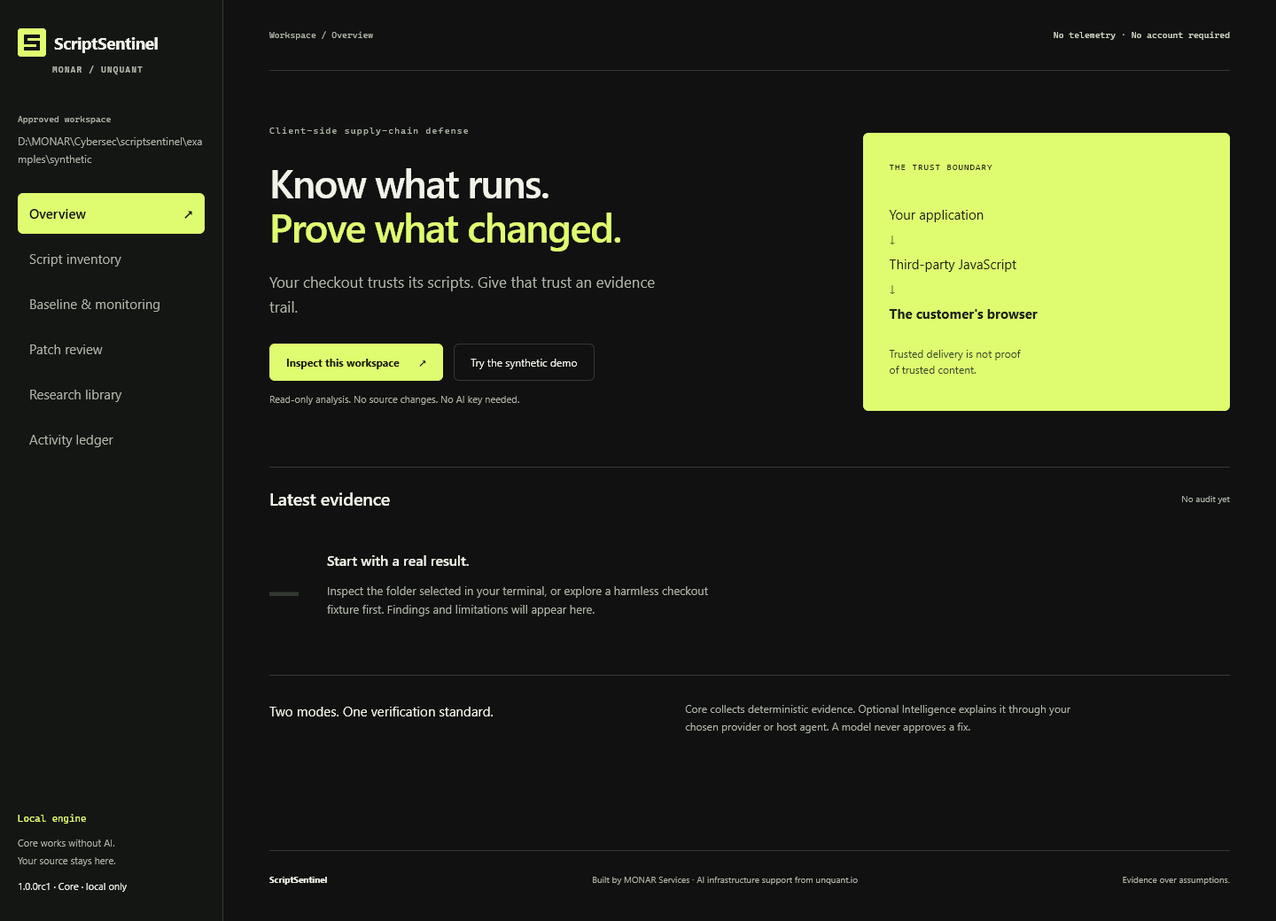
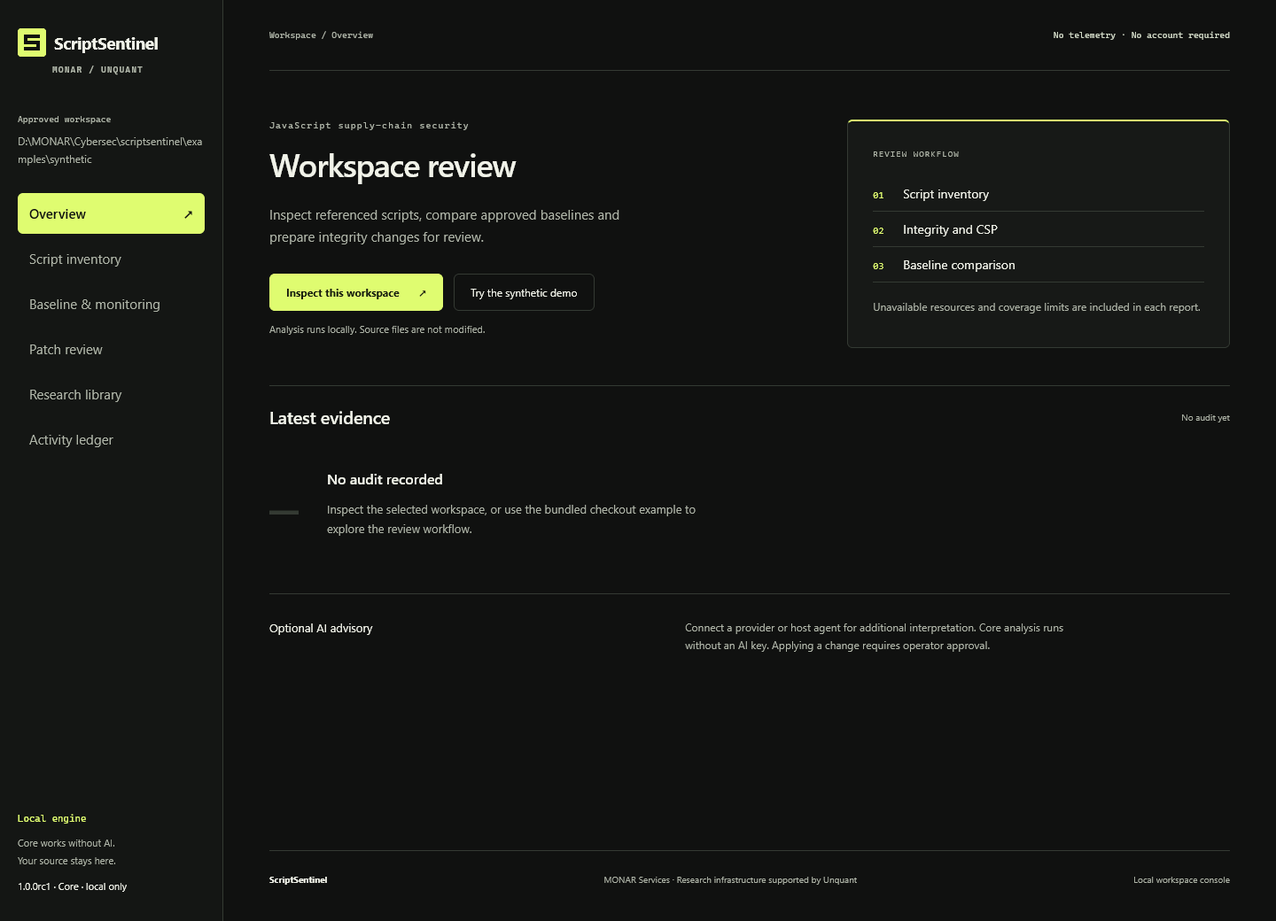
Replace promotional slogans with restrained security product design

diff --git a/src/scriptsentinel/web/index.html b/src/scriptsentinel/web/index.html
@@ -9,15 +9,15 @@
 <div class="rail-foot"><span class="local-state">Local engine</span><p>Core works without AI.<br>Your source stays here.</p><span id="version">Development build</span></div></aside>
 <main id="main"><header class="topbar"><span id="breadcrumb">Workspace / Overview</span><span class="privacy">No telemetry · No account required</span></header>
 <div id="notice" role="status" aria-live="polite" hidden></div>
-<section id="overview" class="view"><div class="intro"><div><span class="eyebrow">Client-side supply-chain defense</span><h1>Know what runs.<br><em>Prove what changed.</em></h1><p class="lead">Your checkout trusts its scripts. Give that trust an evidence trail.</p><div class="actions"><button class="primary" id="audit">Inspect this workspace <span>↗</span></button><button class="secondary" id="demo">Try the synthetic demo</button></div><p class="hint">Read-only analysis. No source changes. No AI key needed.</p></div><div class="signal"><span>THE TRUST BOUNDARY</span><div class="chain"><div>Your application</div><b>↓</b><div>Third-party JavaScript</div><b>↓</b><div class="chain-active">The customer's browser</div></div><p>Trusted delivery is not proof<br>of trusted content.</p></div></div>
+<section id="overview" class="view"><div class="intro"><div><span class="eyebrow">JavaScript supply-chain security</span><h1>Workspace review</h1><p class="lead">Inspect referenced scripts, compare approved baselines and prepare integrity changes for review.</p><div class="actions"><button class="primary" id="audit">Inspect this workspace <span>↗</span></button><button class="secondary" id="demo">Try the synthetic demo</button></div><p class="hint">Analysis runs locally. Source files are not modified.</p></div><div class="signal"><span>REVIEW WORKFLOW</span><div class="chain"><div><b>01</b> Script inventory</div><div><b>02</b> Integrity and CSP</div><div><b>03</b> Baseline comparison</div></div><p>Unavailable resources and coverage limits are included in each report.</p></div></div>
 <div class="section-line"><h2>Latest evidence</h2><span id="run-label">No audit yet</span></div>
-<div id="empty" class="empty"><span class="empty-number">—</span><div><h3>Start with a real result.</h3><p>Inspect the folder selected in your terminal, or explore a harmless checkout fixture first. Findings and limitations will appear here.</p></div></div>
+<div id="empty" class="empty"><span class="empty-number">—</span><div><h3>No audit recorded</h3><p>Inspect the selected workspace, or use the bundled checkout example to explore the review workflow.</p></div></div>
 <div id="report" hidden><div class="report-head"><div><span id="risk" class="badge"></span><h2 id="report-title">Audit findings</h2></div><button class="secondary" id="download-report">Export JSON</button></div><div class="facts"><div><span>Scripts inventoried</span><strong id="script-count"></strong></div><div><span>Resources unavailable</span><strong id="unavailable-count"></strong></div><div><span>CSP posture</span><strong id="csp-grade"></strong></div><div><span>Analysis</span><strong>AST + heuristics</strong></div></div><div class="section-line"><h3>Review queue</h3><span>Signals require context</span></div><div id="findings"></div></div>
-<div class="bottom-note"><span>Two modes. One verification standard.</span><p>Core collects deterministic evidence. Optional Intelligence explains it through your chosen provider or host agent. A model never approves a fix.</p></div></section>
+<div class="bottom-note"><span>Optional AI advisory</span><p>Connect a provider or host agent for additional interpretation. Core analysis runs without an AI key. Applying a change requires operator approval.</p></div></section>
 <section id="inventory" class="view" hidden><h1>Script inventory</h1><p class="lead compact">See what was analyzed, what could not be read, and which bytes were verified.</p><div class="toolbar"><label for="search">Filter scripts</label><input id="search" type="search" placeholder="Search a source path or rule"><button class="secondary" id="inventory-audit">Refresh audit</button></div><div class="table-wrap"><table><caption class="sr">Latest script inventory</caption><thead><tr><th>Source</th><th>Kind</th><th>Integrity</th><th>Signals</th></tr></thead><tbody id="scripts"><tr><td colspan="4">Run an audit to populate this inventory.</td></tr></tbody></table></div><p class="hint">Static inventory cannot discover every runtime load. Use the authorized browser observation command for staging-page evidence.</p></section>
-<section id="monitor" class="view" hidden><h1>Trust is a decision.<br>Drift is an observation.</h1><p class="lead compact">Approve a baseline only after reviewing the underlying release or artifacts. Capturing today's bytes does not make them trustworthy.</p><div class="split"><form id="baseline-form"><h2>Establish a reviewed baseline</h2><label for="reviewer">Reviewer</label><input id="reviewer" required placeholder="Your name or review team"><label for="provenance">Approved artifact provenance</label><input id="provenance" required placeholder="Release, commit or independent review reference"><label class="check"><input id="baseline-approved" type="checkbox" required> I independently reviewed these artifacts and approve their hashes.</label><button class="primary" type="submit">Pin reviewed baseline</button><p id="baseline-status" class="hint"></p></form><div class="plain-panel"><h2>Compare against approval</h2><p>Detect added, removed and changed local HTML and referenced scripts. Results persist in the activity ledger.</p><button class="secondary" id="compare">Check for changes</button><pre id="drift" class="output">No comparison performed.</pre><p class="hint">For a standing local watch: <code>scriptsentinel watch . --interval 60</code></p></div></div></section>
-<section id="patch" class="view" hidden><h1>A fix you can inspect.</h1><p class="lead compact">Prepare SRI changes from reviewed bytes, validate them in a temporary copy, and take the diff to your application tests.</p><form id="proposal-form" class="proposal-form"><label for="html-file">HTML file, relative to this workspace</label><input id="html-file" required placeholder="checkout/index.html"><label for="baseline-file">Trusted baseline file, relative to this workspace</label><input id="baseline-file" required value=".scriptsentinel/baseline.json"><button class="primary" type="submit">Prepare proposal</button></form><div id="proposal-result" hidden><div class="section-line"><h2>Proposed changes</h2><button class="secondary" id="download-proposal">Download proposal</button></div><pre id="diff" class="output diff"></pre><button class="primary" id="validate">Validate in a temporary copy</button><pre id="validation" class="output">Validation has not run.</pre><p class="hint">Application and production compatibility require separate review. Applying a proposal is an explicit CLI action with <code>apply-proposal --approve</code>; the console cannot silently change your application.</p></div></section>
-<section id="research" class="view" hidden><h1>Research with receipts.</h1><p class="lead compact">Versioned, attributed evidence. Incident reports and historical lab results retain separate provenance.</p><div id="research-content" class="research-list">Loading research pack…</div></section>
+<section id="monitor" class="view" hidden><h1>Baselines and monitoring</h1><p class="lead compact">Approve a baseline only after reviewing the underlying release or artifacts. Capturing today's bytes does not make them trustworthy.</p><div class="split"><form id="baseline-form"><h2>Establish a reviewed baseline</h2><label for="reviewer">Reviewer</label><input id="reviewer" required placeholder="Your name or review team"><label for="provenance">Approved artifact provenance</label><input id="provenance" required placeholder="Release, commit or independent review reference"><label class="check"><input id="baseline-approved" type="checkbox" required> I independently reviewed these artifacts and approve their hashes.</label><button class="primary" type="submit">Pin reviewed baseline</button><p id="baseline-status" class="hint"></p></form><div class="plain-panel"><h2>Compare against approval</h2><p>Detect added, removed and changed local HTML and referenced scripts. Results persist in the activity ledger.</p><button class="secondary" id="compare">Check for changes</button><pre id="drift" class="output">No comparison performed.</pre><p class="hint">For a standing local watch: <code>scriptsentinel watch . --interval 60</code></p></div></div></section>
+<section id="patch" class="view" hidden><h1>Integrity patch proposals</h1><p class="lead compact">Prepare SRI changes from reviewed bytes, validate them in a temporary copy, and take the diff to your application tests.</p><form id="proposal-form" class="proposal-form"><label for="html-file">HTML file, relative to this workspace</label><input id="html-file" required placeholder="checkout/index.html"><label for="baseline-file">Trusted baseline file, relative to this workspace</label><input id="baseline-file" required value=".scriptsentinel/baseline.json"><button class="primary" type="submit">Prepare proposal</button></form><div id="proposal-result" hidden><div class="section-line"><h2>Proposed changes</h2><button class="secondary" id="download-proposal">Download proposal</button></div><pre id="diff" class="output diff"></pre><button class="primary" id="validate">Validate in a temporary copy</button><pre id="validation" class="output">Validation has not run.</pre><p class="hint">Application and production compatibility require separate review. Applying a proposal is an explicit CLI action with <code>apply-proposal --approve</code>; the console cannot silently change your application.</p></div></section>
+<section id="research" class="view" hidden><h1>Incident research</h1><p class="lead compact">Versioned, attributed evidence. Incident reports and historical lab results retain separate provenance.</p><div id="research-content" class="research-list">Loading research pack…</div></section>
 <section id="activity" class="view" hidden><div class="section-line"><h1>Activity ledger</h1><button class="secondary" id="refresh-activity">Refresh</button></div><p class="lead compact">Local decisions and observations, recorded as they happen.</p><div id="events"></div></section>
-<footer><strong>ScriptSentinel</strong><span>Built by MONAR Services · AI infrastructure support from unquant.io</span><span>Evidence over assumptions.</span></footer>
+<footer><strong>ScriptSentinel</strong><span>MONAR Services · Research infrastructure supported by Unquant</span><span>Local workspace console</span></footer>
 </main></body></html>

diff --git a/src/scriptsentinel/web/style.css b/src/scriptsentinel/web/style.css
@@ -1,2 +1,3 @@
 :root{color-scheme:dark;--bg:#101110;--surface:#171917;--panel:#1d201d;--line:#343a33;--text:#f1f3e9;--muted:#b0b6a9;--yellow:#dffc70;--red:#ff9990;--radius:6px;font-family:'Segoe UI',Arial,sans-serif;font-size:15px}*{box-sizing:border-box}body{margin:0;background:var(--bg);color:var(--text)}button,input{font:inherit}button,a,input{outline-offset:5px}button:focus-visible,a:focus-visible,input:focus-visible{outline:2px solid var(--yellow)}button{cursor:pointer;border:1px solid var(--line);border-radius:var(--radius);transition:background .18s,color .18s,transform .18s}button:disabled{opacity:.55;cursor:wait}button:active:not(:disabled){transform:translateY(1px)}a{color:inherit}p{line-height:1.65;color:var(--muted);max-width:70ch}h1,h2,h3{color:var(--text);text-wrap:balance}h1{font-size:3rem;font-weight:550;line-height:1.1;letter-spacing:-.035em;margin:0 0 24px}h2{font-size:1.3rem;font-weight:550}h3{font-size:1.05rem;font-weight:550}em{font-style:normal;color:var(--yellow)}code,pre,.eyebrow,.workspace-label,.edition,.local-state,.badge,.topbar{font-family:'Cascadia Code',Consolas,monospace}.rail{width:252px;position:fixed;inset:0 auto 0 0;border-right:1px solid var(--line);padding:32px 20px;display:flex;flex-direction:column;background:#141614}.wordmark{font-size:19px;font-weight:650;letter-spacing:-.5px;text-decoration:none;display:flex;flex-wrap:wrap;align-items:center;gap:9px}.mark{background:var(--yellow);color:var(--bg);padding:2px 8px;font-size:20px;border-radius:3px}.edition{font-size:10px;color:var(--muted);width:100%;padding-left:39px;letter-spacing:1px}.workspace-label{font-size:10px;color:var(--muted);margin-top:45px}#workspace{font-size:12px;overflow-wrap:anywhere;margin:10px 0 28px;max-height:85px;overflow:auto}nav{display:flex;flex-direction:column;gap:5px}nav button{background:transparent;border-color:transparent;color:var(--muted);text-align:left;padding:12px;display:flex;justify-content:space-between}nav button:hover{background:var(--panel);color:var(--text)}nav button[aria-current]{background:var(--yellow);color:var(--bg);font-weight:600}.rail-foot{margin-top:auto;padding-top:30px;font-size:11px}.local-state{color:var(--yellow);font-size:11px}.rail-foot p{line-height:1.8}main{margin-left:252px;padding:0 52px;max-width:1770px}.topbar{height:80px;display:flex;align-items:center;justify-content:space-between;border-bottom:1px solid var(--line);font-size:10px;color:var(--muted);gap:20px}.privacy{color:#d1d9c6}.view{padding:47px 0 36px;min-height:calc(100dvh - 160px)}[hidden]{display:none!important}.intro{display:grid;grid-template-columns:1.5fr 1fr;gap:48px;padding:15px 0 55px;align-items:center}.eyebrow{font-size:10px;display:block;margin-bottom:28px;letter-spacing:1.2px;color:var(--muted)}.lead{font-size:17px;margin-bottom:28px;max-width:50ch}.compact{max-width:67ch}.actions{display:flex;gap:12px;flex-wrap:wrap}.primary,.secondary{padding:12px 18px;font-size:12px;display:inline-flex;align-items:center;justify-content:center;gap:22px}.primary{background:var(--yellow);color:#15190d;border-color:var(--yellow);font-weight:650}.primary:hover{background:#edffa7}.secondary{background:transparent;color:var(--text)}.secondary:hover{background:var(--panel);border-color:var(--muted)}.hint{font-size:11px;color:var(--muted);line-height:1.8}.signal{background:var(--yellow);color:#1c2515;padding:26px 30px;min-height:305px;border-radius:var(--radius)}.signal>span{font:10px Consolas,monospace;letter-spacing:1px}.chain{margin:28px 0 18px}.chain div{font-size:15px;padding:8px 0}.chain b{font-weight:400;color:#55693a}.chain-active{font-weight:700}.signal p{font-size:12px;line-height:1.5;color:#36492b}.section-line{border-top:1px solid var(--line);padding:22px 0;display:flex;gap:20px;align-items:center;justify-content:space-between}.section-line h1,.section-line h2,.section-line h3{margin:0}.section-line>span{font-size:10px;color:var(--muted)}.empty{display:flex;align-items:center;gap:32px;padding:24px 0 50px}.empty-number{font:60px Consolas,monospace;color:var(--line)}.empty h3{margin:0}.empty p{max-width:65ch;font-size:13px}.bottom-note{display:grid;grid-template-columns:1fr 1.4fr;gap:30px;border-top:1px solid var(--line);padding-top:28px}.bottom-note>span{font-size:15px;line-height:1.6}.bottom-note p{font-size:12px;margin:0}.report-head{display:flex;justify-content:space-between;align-items:center;margin:12px 0 28px}.report-head h2{margin-top:14px}.badge{font-size:10px;border:1px solid var(--line);padding:5px 9px;border-radius:3px;color:var(--yellow)}.badge[data-severity=CRITICAL],.badge[data-severity=HIGH],.badge[data-severity=ERROR]{color:var(--red);border-color:#644a42}.facts{display:flex;flex-wrap:wrap;gap:35px;padding:0 0 30px}.facts div{min-width:120px}.facts span{display:block;font-size:11px;color:var(--muted);margin-bottom:12px}.facts strong{font-size:20px;font-weight:500}.finding{padding:18px 0;border-bottom:1px solid var(--line);display:grid;grid-template-columns:95px 1fr;gap:16px}.finding .badge{align-self:start;text-align:center}.finding h3{margin:0 0 8px}.finding p{font-size:12px;margin:0}.finding details{margin-top:10px;font-size:12px;color:var(--muted)}.finding summary{cursor:pointer;color:var(--text)}.toolbar{display:flex;gap:16px;align-items:center;margin:30px 0}.toolbar label{font-size:12px}input:not([type=checkbox]){display:block;background:#121512;color:var(--text);border:1px solid #535d4f;padding:12px 14px;border-radius:var(--radius);width:100%;min-width:0}input::placeholder{color:#a0aa96}.toolbar input{max-width:400px}table{border-collapse:collapse;width:100%;font-size:12px;text-align:left}th{font-size:10px;color:var(--muted);font-weight:400;padding:16px 10px;border-bottom:1px solid var(--line)}td{padding:20px 10px;border-bottom:1px solid var(--line);vertical-align:top;overflow-wrap:anywhere}td:first-child{max-width:350px}td small{display:block;color:var(--muted);margin-top:7px}.table-wrap{overflow:auto}.split{display:grid;grid-template-columns:1fr 1fr;gap:50px;margin-top:40px}.split form,.plain-panel{border-top:1px solid var(--line);padding-top:15px}label{display:block;font-size:12px;margin:22px 0 10px}.check{display:flex;gap:12px;align-items:start;line-height:1.6}.check input{margin-top:4px;accent-color:var(--yellow)}form .primary{margin-top:18px}.plain-panel p{font-size:13px}.output{white-space:pre-wrap;overflow-wrap:anywhere;font-size:12px;line-height:1.8;background:var(--surface);border:1px solid var(--line);padding:20px;border-radius:var(--radius);max-height:450px;overflow:auto}.proposal-form{max-width:600px;margin:35px 0}.research-item{display:grid;grid-template-columns:150px 1fr;gap:25px;padding:25px 0;border-top:1px solid var(--line)}.research-item p{font-size:13px;margin:0 0 8px}.research-item a{font-size:12px;overflow-wrap:anywhere}.research-item small{color:var(--muted);font-size:11px}.activity-row{display:grid;grid-template-columns:180px 180px 1fr;gap:20px;padding:20px 0;border-bottom:1px solid var(--line);font-size:12px}.activity-row time{color:var(--muted)}.activity-row details{overflow:hidden}.activity-row pre{max-height:220px;overflow:auto;white-space:pre-wrap;overflow-wrap:anywhere}#notice{margin-top:20px;padding:14px 18px;border:1px solid var(--line);border-radius:var(--radius);font-size:13px;background:var(--panel)}#notice.error{color:var(--red)}#notice.busy{color:var(--yellow);animation:breathe 1s ease-in-out infinite alternate}footer{border-top:1px solid var(--line);padding:25px 0;display:flex;flex-wrap:wrap;gap:15px;font-size:10px;color:var(--muted);justify-content:space-between}footer strong{color:var(--text)}.sr{position:absolute;width:1px;height:1px;overflow:hidden;clip-path:inset(50%)}.skip{position:fixed;top:-100px;left:20px;padding:12px;background:var(--yellow);color:#101110;z-index:20}.skip:focus{top:15px}@keyframes breathe{to{background:#283020}}@media(prefers-reduced-motion:reduce){*,*::before,*::after{animation:none!important;transition:none!important}}@media(min-width:1500px){main{padding:0 80px}.intro{gap:100px;padding-bottom:75px}h1{font-size:3.6rem}}@media(max-width:1150px){.rail{width:210px;padding:25px 16px}main{margin-left:210px;padding:0 30px}.intro{gap:30px;grid-template-columns:1.3fr 1fr}h1{font-size:2.6rem}.signal{padding:25px}.privacy{display:none}.split{gap:25px}}@media(max-width:820px){.rail{position:static;width:auto;padding:20px;border-right:0;border-bottom:1px solid var(--line)}.wordmark{width:220px}.workspace-label,#workspace,.rail-foot{display:none}nav{flex-direction:row;overflow:auto;margin-top:20px;gap:8px}nav button{white-space:nowrap;font-size:12px}nav button span{display:none}main{margin-left:0;padding:0 22px}.topbar{height:55px}.intro{grid-template-columns:1fr;padding-bottom:35px}.signal{min-height:0;display:grid;grid-template-columns:1fr 1fr;gap:15px}.signal>span{grid-column:1/-1}.chain{margin:0}.signal p{align-self:center}.view{padding-top:32px}.split{grid-template-columns:1fr}.activity-row{grid-template-columns:1fr 1fr}.activity-row details{grid-column:1/-1}.toolbar{flex-wrap:wrap}.toolbar input{max-width:none}.bottom-note{grid-template-columns:1fr;gap:10px}h1{font-size:2.6rem}.research-item{grid-template-columns:1fr;gap:10px}.facts{gap:25px}.section-line{flex-wrap:wrap}}@media(max-width:440px){h1{font-size:2.25rem}.actions{display:grid}.finding{grid-template-columns:1fr}.finding .badge{justify-self:start}.signal{padding:22px}.signal p{font-size:11px}.report-head{align-items:start;gap:15px}.empty{gap:16px}.facts strong{font-size:17px}}
 .wordmark .mark{font-size:0;width:32px;height:32px;padding:0;background:transparent url('/mark.svg') center/contain no-repeat}
+.view h1{font-size:2.4rem;letter-spacing:-1.1px;line-height:1.15}.intro{grid-template-columns:1.4fr 1fr;gap:48px;padding:8px 0 42px}.eyebrow{margin-bottom:18px}.lead{font-size:15px;line-height:1.7}.signal{background:var(--surface);color:var(--text);border:1px solid var(--line);border-top:2px solid var(--yellow);min-height:0;padding:24px 28px}.signal>span{color:var(--muted)}.chain{margin:18px 0}.chain div{font-size:14px;padding:10px 0;border-bottom:1px solid var(--line)}.chain b{display:inline-block;width:30px;font:11px Consolas,monospace;color:var(--yellow)}.signal p{color:var(--muted);font-size:12px;line-height:1.6}.bottom-note>span{font-size:13px}@media(max-width:820px){.intro{grid-template-columns:1fr;gap:26px}.signal{display:block}.view h1{font-size:2rem}}

diff --git a/packaging/verify_artifacts.py b/packaging/verify_artifacts.py
@@ -31,7 +31,7 @@ with tarfile.open(source) as archive:
     names = archive.getnames()
     assert any(name.endswith("/CREDITS.md") for name in names)
     assert any(name.endswith("/assets/brandkit/README.md") for name in names)
-    assert any(name.endswith("/assets/brandkit/identity-board.png") for name in names)
+    assert any(name.endswith("/assets/brandkit/identity-system.svg") for name in names)
     assert not any("/.scriptsentinel/" in name or name.startswith("scriptsentinel-1.0.0rc1/report/") for name in names)
 records = []
 for path in (

diff --git a/README.md b/README.md
@@ -1,5 +1,5 @@
 <!-- ScriptSentinel: local-first client-side supply-chain defense -->
-<p align="center"><img src="assets/hero-v1.svg" alt="ScriptSentinel — Know what runs. Prove what changed." width="100%"></p>
+<p align="center"><img src="assets/hero-v1.svg" alt="ScriptSentinel — JavaScript supply-chain security. Inventory, integrity review and change monitoring." width="100%"></p>
 
 <p align="center">
 <a href="#start-in-two-minutes">Start here</a> ·
@@ -10,9 +10,9 @@
 <a href="CREDITS.md">The collaboration</a>
 </p>
 
-**ScriptSentinel makes the JavaScript your application trusts inspectable.** Inventory scripts, parse their syntax, check integrity and CSP posture, review changes against approved artifacts, and prepare fixes with an evidence trail. Use the private local console, the CLI, or read-only tools inside your existing AI agent.
+**ScriptSentinel reviews the JavaScript delivered by your application.** Inventory scripts, parse their syntax, check integrity and CSP posture, compare approved artifacts, and prepare reviewed fixes. Use the private local console, the CLI, or read-only tools inside your existing AI agent.
 
-**Core needs no AI key. Intelligence is optional. Every model faces the same verification gate.**
+Core runs without an AI provider. Optional AI integrations provide advisory analysis; changes still require deterministic validation and operator approval.
 
 <p align="center"><img src="assets/console-v1.png" alt="The working ScriptSentinel local console, showing its workspace and inspection controls" width="100%"></p>
 
@@ -36,7 +36,7 @@ Open the private link printed in the terminal. Try **the synthetic demo**, then 
 
 Prefer pipx? Run `pipx install .` from this checkout. The code here is a **v1 release candidate**, not a claim that a published package already includes these changes.
 
-## From a signal to a decision
+## Workflows
 
 | Your question | The working path |
 | --- | --- |
@@ -76,7 +76,7 @@ scriptsentinel observe-browser https://your-staging.example/checkout --authorize
 
 Only named origins are allowed. Private/local addresses require `--allow-private`. Anonymous GET/HEAD requests are observed; state-changing requests, redirects, WebSockets and service workers are blocked. No login session is copied. Use a disposable VM/container with network egress controls for untrusted pages: a browser context alone is not a security sandbox.
 
-## Intelligence without surrendering control
+## Optional AI integrations
 
 Anthropic, OpenAI, OpenRouter, Gemini and custom OpenAI-compatible endpoints are advisory adapters. Choose an explicit model available to your account. Optional OS keychain storage:
 
@@ -90,7 +90,7 @@ Audit advisory shares minimized rule IDs and counts. Credentials, source, paths,
 
 Read-only host-agent setup and advisory responsibilities are in [the integration guide](docs/INTEGRATIONS.md).
 
-## Research with receipts
+## Incident research
 
 The v1 focus is **OPTIMJACK and the broader defensive failure mode it illustrates: trusted script delivery can carry changed content**.
 
@@ -98,7 +98,7 @@ The [Optimizely incident notice](https://status.optimizely.com/incidents/ftw0fh9
 
 `scriptsentinel research` prints the versioned source pack. New packs are data with provenance, applicability, revision history and license information. Existing lab IOC records are hunting leads with lab provenance, not proof of compromise. No malicious infrastructure is contacted by the demo.
 
-## Know the limits
+## Scope and limitations
 
 AST signals identify syntax and capabilities; regex signals remain heuristics. Neither proves malicious intent or supplies whole-program dataflow analysis. CSP posture is not a full browser policy oracle. Static inventory misses some runtime behavior. Mutable vendor scripts may be incompatible with fixed SRI. Application compatibility needs functional review. PCI mappings aid evidence collection; they do not certify compliance.
 
@@ -133,9 +133,9 @@ examples/synthetic/     Harmless demonstration fixtures
 <details>
 <summary>Explore the ScriptSentinel identity system</summary>
 
-<img src="assets/brandkit/identity-board.png" alt="ScriptSentinel brand identity: geometric S boundary mark, graphite and signal-yellow palette, typography and conceptual applications" width="100%">
+<img src="assets/brandkit/identity-system.svg" alt="ScriptSentinel identity reference: logo geometry, color values, typography and application layouts" width="100%">
 
-Brand concept artwork, not a product screenshot. [Design rationale and generation prompt](assets/brandkit/README.md).
+Editable vector identity reference. [Asset specifications](assets/brandkit/README.md).
 
 </details>
 
@@ -143,8 +143,8 @@ Brand concept artwork, not a product screenshot. [Design rationale and generatio
 
 **Luke — owner, unquant.io.** Provided the uncensored AI infrastructure used for the original sandbox research and early development.
 
-Collaboration roles were supplied by the project owner. See [credits and upstream acknowledgments](CREDITS.md). The engineering standard is the same regardless of which model helps.
+Collaboration roles were supplied by the project owner. See [credits and upstream acknowledgments](CREDITS.md).
 
 ---
 
-Built by [MONAR Services](https://www.monarservices.org/) with AI infrastructure support from [unquant.io](https://unquant.io/). Evidence over assumptions.
+Built by [MONAR Services](https://www.monarservices.org/) with AI infrastructure support from [Unquant](https://unquant.io/).

diff --git a/assets/brandkit/README.md b/assets/brandkit/README.md
@@ -1,25 +1,25 @@
-# Verified boundary
+# ScriptSentinel identity assets
 
-ScriptSentinel's identity connects a reduced geometric S to a boundary around
-mutable code. Graphite #101110, near-white #f1f3e9 and signal yellow #dffc70
-carry the same visual language through the README, local console and launch art.
+The production identity uses a geometric S monogram, a compact wordmark and
+technical diagrams. Copy describes the product and its controls directly.
+Do not add slogans, simulated threat counters, testimonials or certification marks.
 
-The overview board was generated with the built-in image-generation tool using
-the explicitly requested brandkit workflow. It is concept artwork. Live product
-screenshots remain separate, reproducible captures; no statistics or results
-are invented for the artwork. The production mark is a small editable SVG.
+## Files
 
-## Generation prompt
+- `mark.svg`: the editable 32-unit monogram used by the local console.
+- `identity-system.svg`: logo geometry, exact color values, typography and applications.
+- `../hero-v1.svg`: the repository header and source for the social preview.
+- `../console-v1.png` and `../evidence-v1.png`: captures of the running application.
 
-Premium ScriptSentinel identity-studio overview, 3×3 landscape 16:10 board.
-Metaphor: a verified boundary around mutable code. Protected negative space,
-disciplined rectangular S monogram. Graphite #101110, near-white #f1f3e9,
-signal yellow #dffc70. Wordmark cover, geometric construction, sparse terminal
-application, tagline, palette, typography, matte embossed folder, precision-machined
-boundary frames and icon applications. Strong gutters and calm negative space.
-Exact text: ScriptSentinel; Know what runs. Prove what changed.; MONAR × UNQUANT;
-scriptsentinel demo; Graphite; Signal. No generic shields, hoodie hackers, neon
-glow, fake statistics, certifications, stock imagery or tiny fake UI copy.
+Graphite #101110 and off-white #f1f3e9 carry the interface. Signal yellow #dffc70
+is reserved for actions, identifiers and selected states. System sans and
+monospace fonts keep the application independent of external asset services.
+Use the SVG masters for resizing; keep their view boxes and aspect ratios.
+
+An earlier concept board used the built-in image-generation tool during the
+requested brandkit exploration. It was retired from the current asset set after
+design review. The current reference is an editable vector specification;
+product screenshots are reproduced with `packaging/preview_console.py`.
 
 Credits: Ali, MONAR Services co-owner/developer; Luke, Unquant owner and provider
 of the original AI infrastructure, as supplied by the project owner. See CREDITS.md.

diff --git a/docs/VALIDATION.md b/docs/VALIDATION.md
@@ -11,6 +11,17 @@ Chromium workflows ran under 3.12. Unclosed SQLite connections found during
 
 ## Executed checks
 
+### Remote CI
+
+[GitHub Actions run 45435739490](https://github.com/Ally-Released/scriptsentinel/actions/runs/45435739490)
+passed for commit `6e782bd`: Python 3.12 and 3.14 on Windows, Linux and macOS,
+lint and strict typing, real Chromium workflows, the locked dependency audit,
+and a wheel/source build with installed-package smoke checks. All ten jobs
+completed successfully. Subsequent commits have their own Actions records;
+this result applies to the named commit.
+
+### Local checks
+
 - Windows / CPython 3.12.14 with the locked Core, browser, credentials and dev
   dependencies; fixed Soup Sieve 4.0 is installed.
 - Ruff and strict Mypy across 39 source modules.
@@ -63,8 +74,7 @@ resolution gaps and discovery budgets applied too late. Those paths were fixed
 and covered by additional regression tests. The reviewer did not run exploits
 or certify production security; runtime verification was performed separately.
 
-At the local validation checkpoint, no remote GitHub CI run, macOS/Linux machine run, Docker/Kubernetes deployment,
-paid provider request, independent human security audit, production application
+No Docker/Kubernetes deployment, paid provider request, independent human security audit, production application
 compatibility test, platform code signing or public release was performed.
 Docker was unavailable locally. Snyk tooling was unavailable. C: was full; builds
 and tooling used D: without deleting user files. No application deployment,

diff --git a/docs/DESIGN.md b/docs/DESIGN.md
@@ -5,7 +5,9 @@
 A security engineer reviewing a checkout on a desk monitor, often beside a code
 editor, needs a low-glare evidence workspace; a store owner needs the next step
 to be understandable. The product uses the master plan's graphite and signal
-yellow identity, restrained in controls and decisive in the trust-boundary panel.
+yellow identity, restricted to controls and small workflow identifiers.
+Headings name the task directly. Avoid paired slogans, promotional claims and
+large decorative accent panels in the working console.
 
 ## Tokens
 
